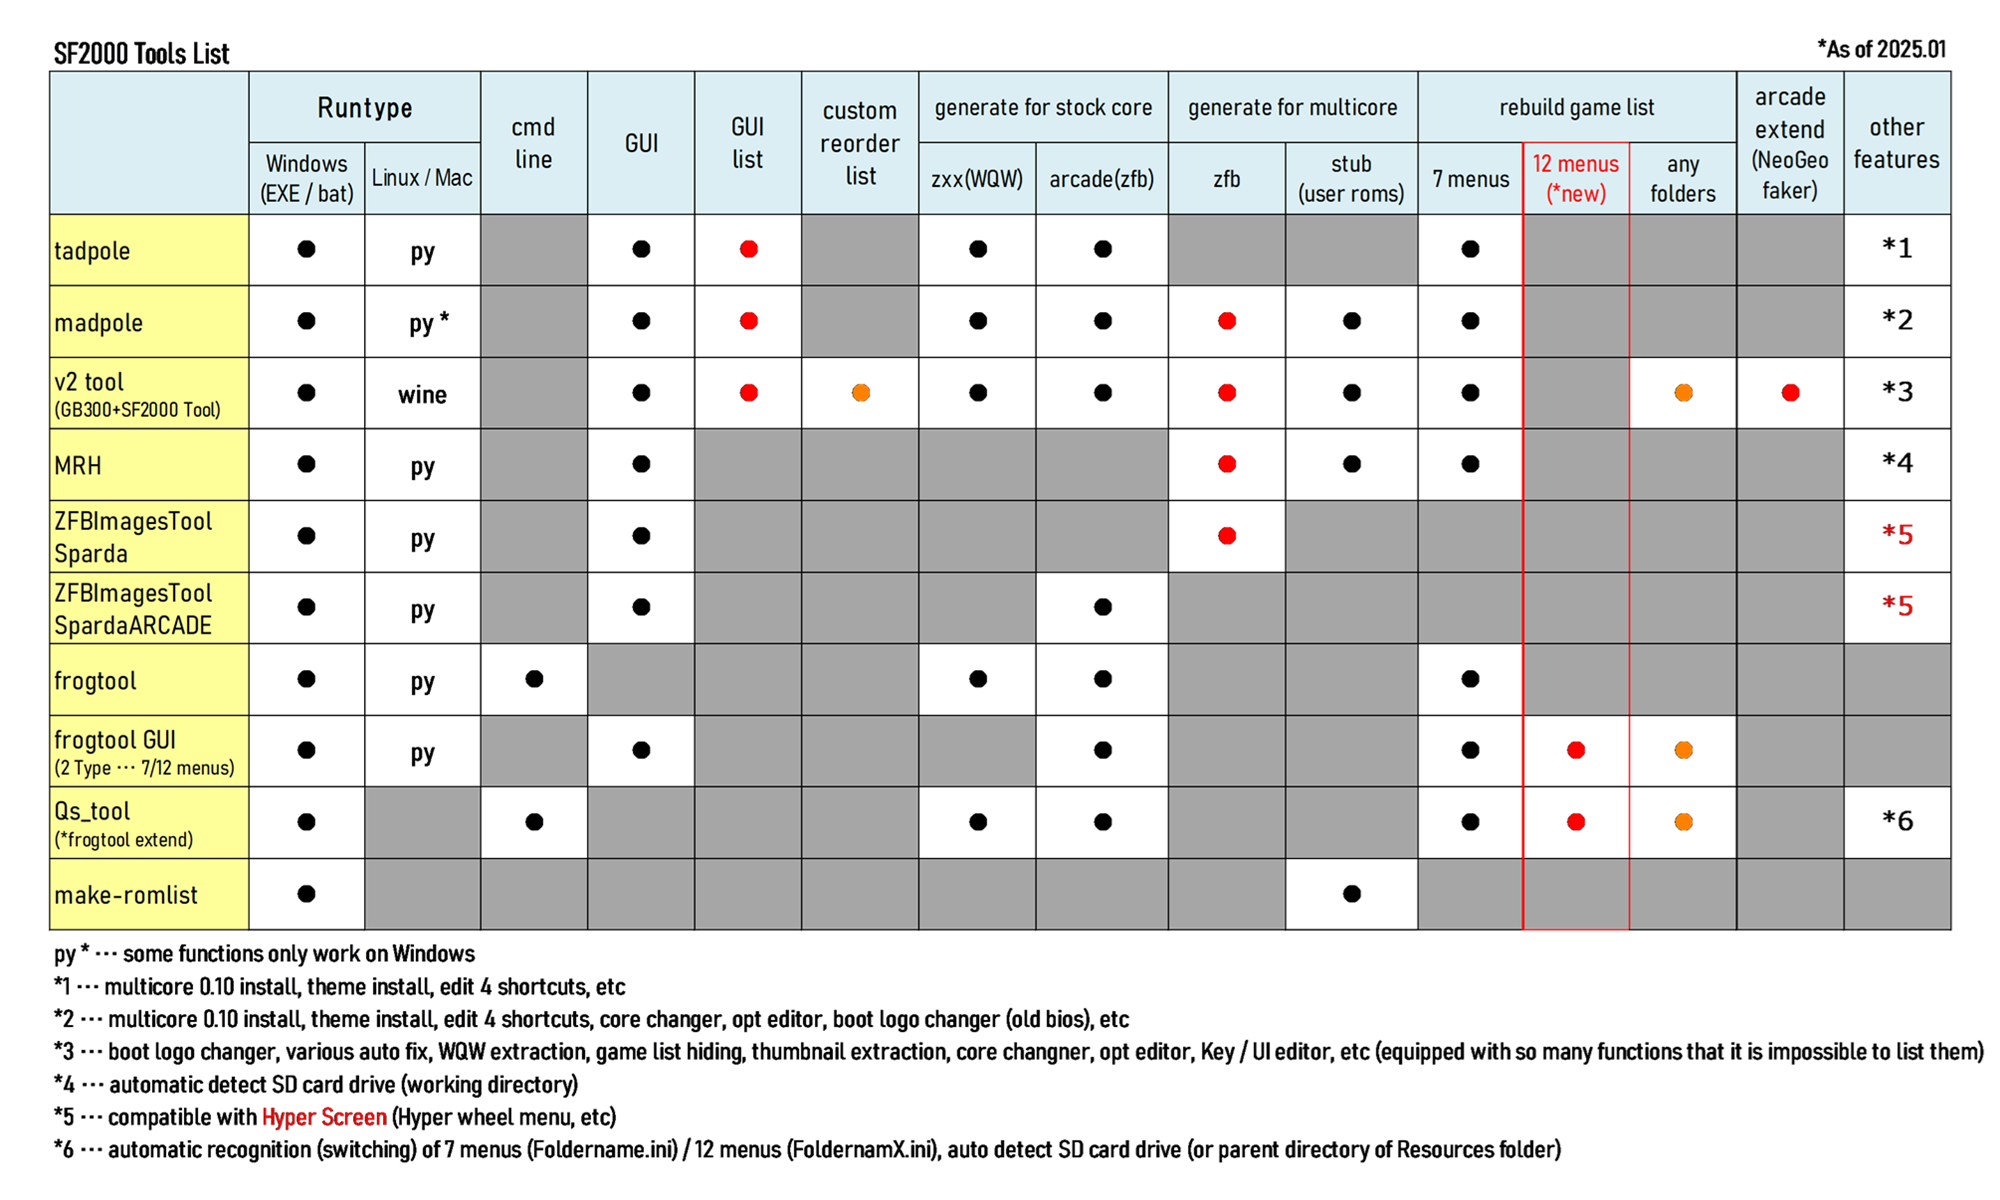
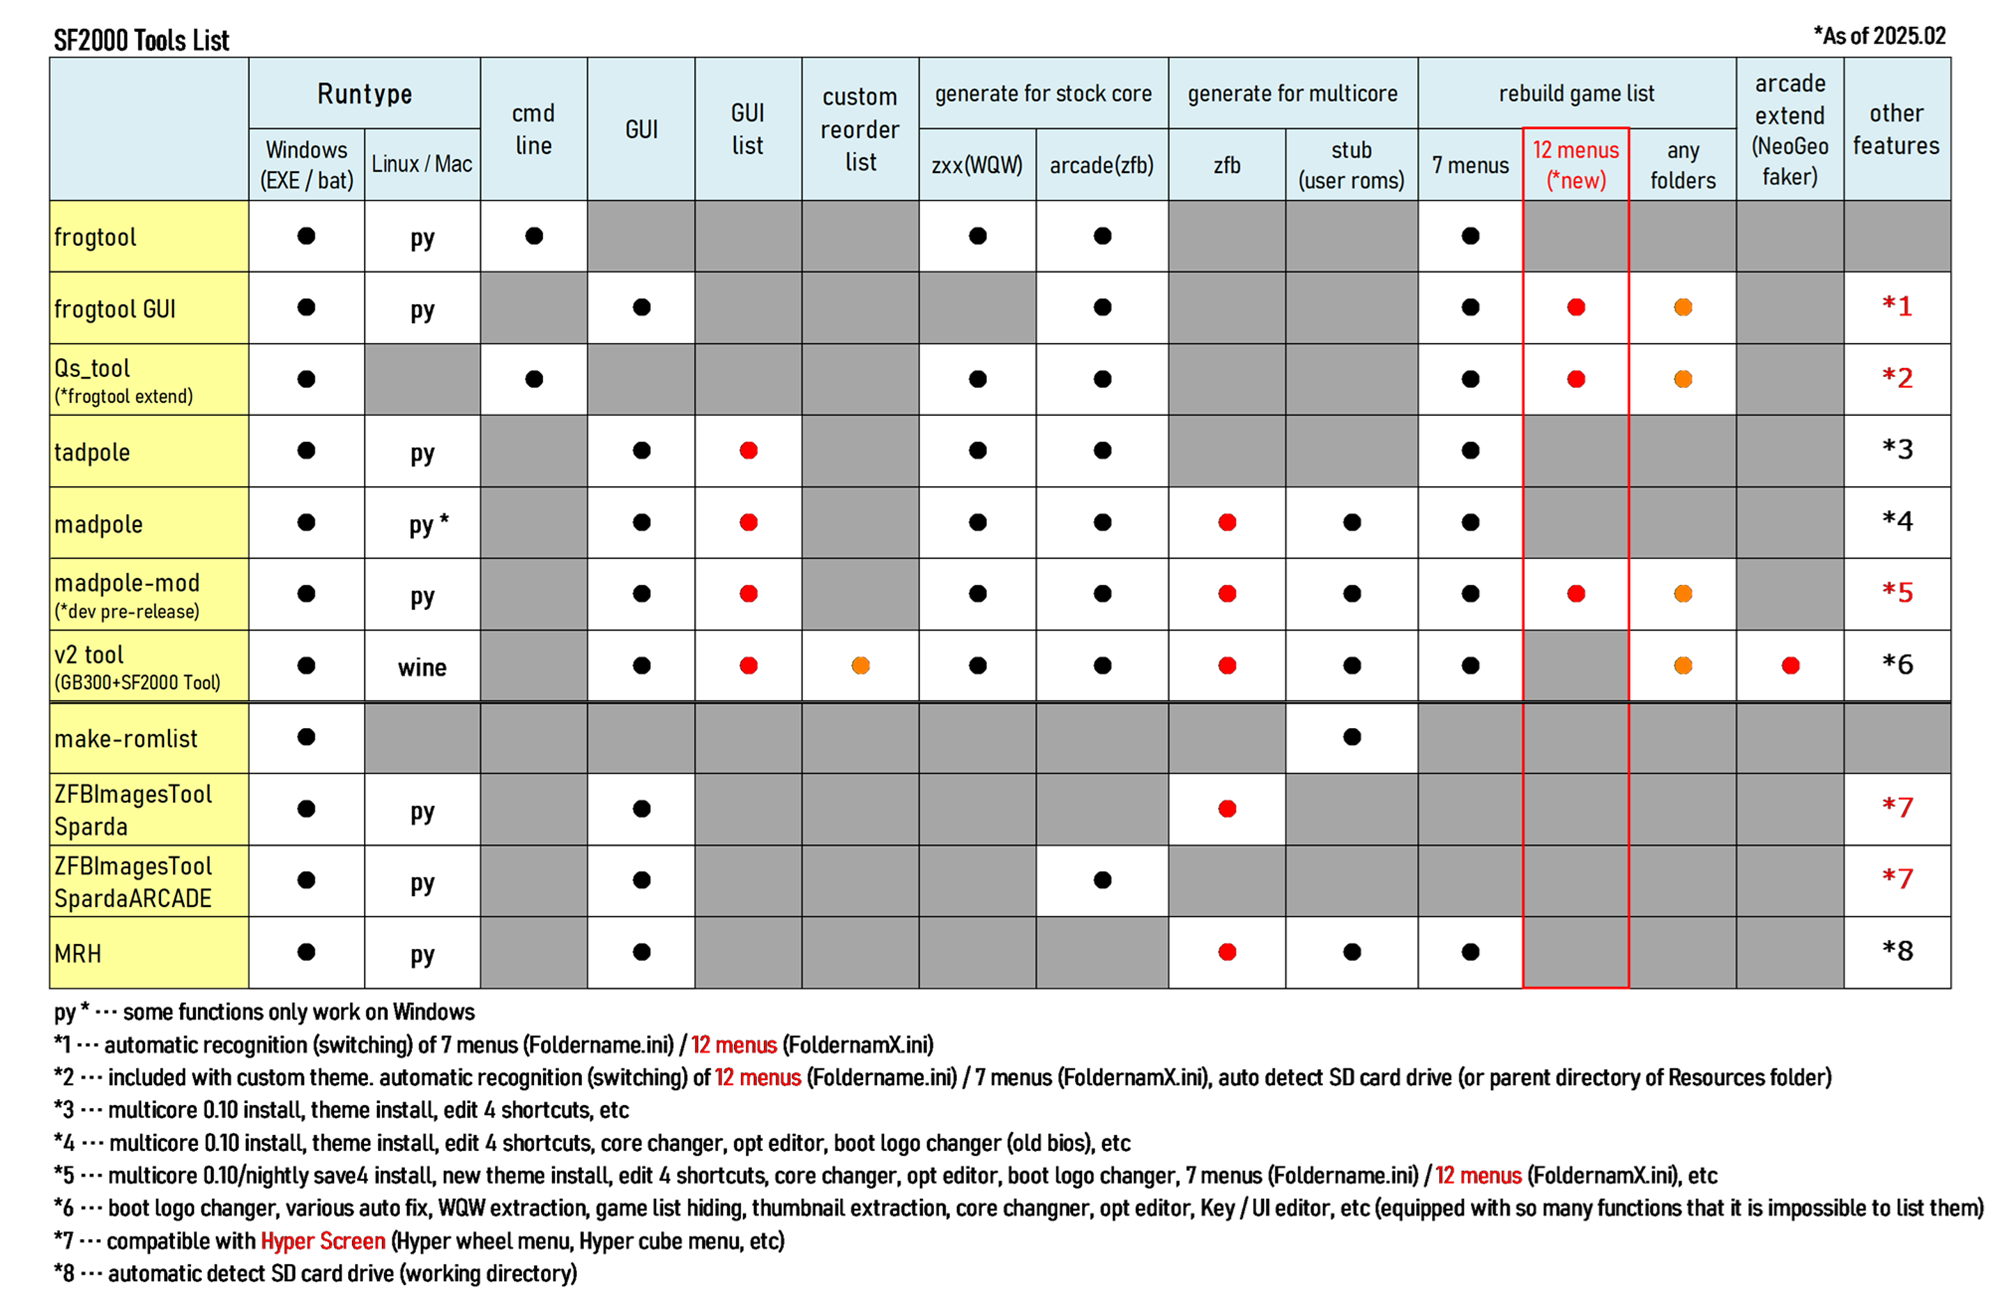
Add files via upload

diff --git a/sf2000_tool_list.html b/sf2000_tool_list.html
@@ -9,24 +9,26 @@
     var tools = [
       {name: "frogtool", url: "https://github.com/tzlion/frogtool/releases", 
 win: "●", mac: "py", cmd: "●", gui: "", list: "", order: "", zxx: "●", arcad: "●", zfb: "", stub: "", menu7: "●", menu12: "", anyfol: "", ngf: "", other: "", descript: "", des2: ""},
-      {name: "frogtool GUI<br>(7/12 menus)", url: "https://discord.com/channels/741895796315914271/1099465777825972347/1333127246357200986", 
-win: "●", mac: "py", cmd: "", gui: "●", list: "", order: "", zxx: "", arcad: "●", zfb: "", stub: "", menu7: "●", menu12: "●", anyfol: "●", ngf: "", other: "", descript: "", des2: ""},
+      {name: "frogtool GUI", url: "https://discord.com/channels/741895796315914271/1099465777825972347/1333127246357200986", 
+win: "●", mac: "py", cmd: "", gui: "●", list: "", order: "", zxx: "", arcad: "●", zfb: "", stub: "", menu7: "●", menu12: "●", anyfol: "●", ngf: "", other: "<font color='red'>*１</font>", descript: "*１ … automatic recognition (switching) of 7 menus (Foldername.ini) / <font color='red'>12 menus</font> (FoldernamX.ini)", des2: ""},
       {name: "Qs_tool<br>(*frogtool extend)", url: "https://discord.com/channels/741895796315914271/1110397766074638397/1320761816447717456", 
-win: "●", mac: "", cmd: "●", gui: "", list: "", order: "", zxx: "●", arcad: "●", zfb: "", stub: "", menu7: "●", menu12: "●", anyfol: "●", ngf: "", other: "*１", descript: "*１ … automatic recognition (switching) of 7 menus (Foldername.ini) / 12 menus (FoldernamX.ini), auto detect SD card drive (or parent directory of Resources folder)", des2: ""},
+win: "●", mac: "", cmd: "●", gui: "", list: "", order: "", zxx: "●", arcad: "●", zfb: "", stub: "", menu7: "●", menu12: "●", anyfol: "●", ngf: "", other: "<font color='red'>*２</font>", descript: "*２ … included with custom theme. automatic recognition (switching) of <font color='red'>12 menus</font> (Foldername.ini) / 7 menus (FoldernamX.ini), auto detect SD card drive (or parent directory of Resources folder)", des2: ""},
       {name: "tadpole", url: "https://github.com/EricGoldsteinNz/tadpole/releases", 
-win: "●", mac: "py", cmd: "", gui: "●", list: "●", order: "", zxx: "●", arcad: "●", zfb: "", stub: "", menu7: "●", menu12: "", anyfol: "", ngf: "", other: "*２", descript: "*２ … multicore 0.10 install, theme install, edit 4 shortcuts, etc", des2: ""},
+win: "●", mac: "py", cmd: "", gui: "●", list: "●", order: "", zxx: "●", arcad: "●", zfb: "", stub: "", menu7: "●", menu12: "", anyfol: "", ngf: "", other: "*３", descript: "*３ … multicore 0.10 install, theme install, edit 4 shortcuts, etc", des2: ""},
       {name: "madpole", url: "https://github.com/fjdogar/madpole/releases", 
-win: "●", mac: "<font size='+1'>&nbsp;py *</font>", cmd: "", gui: "●", list: "●", order: "", zxx: "●", arcad: "●", zfb: "●", stub: "●", menu7: "●", menu12: "", anyfol: "", ngf: "", other: "*３", descript: "*３ … multicore 0.10 install, theme install, edit 4 shortcuts, core changer, opt editor, boot logo changer (old bios), etc", des2: "py * … some functions only work on Windows"},
+win: "●", mac: "<font size='+1'>&nbsp;py *</font>", cmd: "", gui: "●", list: "●", order: "", zxx: "●", arcad: "●", zfb: "●", stub: "●", menu7: "●", menu12: "", anyfol: "", ngf: "", other: "*４", descript: "*４ … multicore 0.10 install, theme install, edit 4 shortcuts, core changer, opt editor, boot logo changer (old bios), etc", des2: "py * … some functions only work on Windows"},
+      {name: "madpole-mod<br>(*dev pre-release)", url: "https://github.com/Trademarked69/madpole-mod/releases", 
+win: "●", mac: "py", cmd: "", gui: "●", list: "●", order: "", zxx: "●", arcad: "●", zfb: "●", stub: "●", menu7: "●", menu12: "●", anyfol: "●", ngf: "", other: "<font color='red'>*５</font>", descript: "*５ … multicore 0.10 install, theme install, edit 4 shortcuts, core changer, opt editor, boot logo changer, 7 menus (Foldername.ini) / <font color='red'>12 menus</font> (FoldernamX.ini), etc", des2: ""},
       {name: "v2 tool<br>(GB300+SF2000 Tool)", url: "https://github.com/nummacway/gb300-sf2000-tool/releases", 
-win: "●", mac: "wine", cmd: "", gui: "●", list: "●", order: "●", zxx: "●", arcad: "●", zfb: "●", stub: "●", menu7: "●", menu12: "", anyfol: "●", ngf: "●", other: "*４", descript: "*４ … boot logo changer, various auto fix, WQW extraction, game list hiding, thumbnail extraction, core changner, opt editor, Key / UI editor, etc (equipped with so many functions that it is impossible to list them)", des2: ""},
+win: "●", mac: "wine", cmd: "", gui: "●", list: "●", order: "●", zxx: "●", arcad: "●", zfb: "●", stub: "●", menu7: "●", menu12: "", anyfol: "●", ngf: "●", other: "*６", descript: "*６ … boot logo changer, various auto fix, WQW extraction, game list hiding, thumbnail extraction, core changner, opt editor, Key / UI editor, etc (equipped with so many functions that it is impossible to list them)", des2: ""},
       {name: "make-romlist", url: "https://github.com/madcock/sf2000_multicore_cores/releases", 
 win: "●", mac: "", cmd: "", gui: "", list: "", order: "", zxx: "", arcad: "", zfb: "", stub: "●", menu7: "", menu12: "", anyfol: "", ngf: "", other: "", descript: "", des2: ""},
       {name: "ZFBimagesTool<br>Sparda", url: "https://discord.com/channels/741895796315914271/1099465777825972347/1325602740851838976", 
-win: "●", mac: "py", cmd: "", gui: "●", list: "", order: "", zxx: "", arcad: "", zfb: "●", stub: "", menu7: "", menu12: "", anyfol: "", ngf: "", other: "<font color='red'>*５</font>", descript: "*５ … compatible with <font color='red'>Hyper Screen</font> (Hyper wheel menu, Hyper cube menu, etc)", des2: ""},
+win: "●", mac: "py", cmd: "", gui: "●", list: "", order: "", zxx: "", arcad: "", zfb: "●", stub: "", menu7: "", menu12: "", anyfol: "", ngf: "", other: "<font color='red'>*７</font>", descript: "*７ … compatible with <font color='red'>Hyper Screen</font> (Hyper wheel menu, Hyper cube menu, etc)", des2: ""},
       {name: "ZFBimagesTool<br>Sparda ARCADE", url: "https://discord.com/channels/741895796315914271/1099465777825972347/1325602740851838976", 
-win: "●", mac: "py", cmd: "", gui: "●", list: "", order: "", zxx: "", arcad: "●", zfb: "", stub: "", menu7: "", menu12: "", anyfol: "", ngf: "", other: "<font color='red'>*５</font>", descript: "", des2: ""},
+win: "●", mac: "py", cmd: "", gui: "●", list: "", order: "", zxx: "", arcad: "●", zfb: "", stub: "", menu7: "", menu12: "", anyfol: "", ngf: "", other: "<font color='red'>*７</font>", descript: "", des2: ""},
       {name: "MRH", url: "https://github.com/fjdogar/multicore_rom_helper/releases", 
-win: "●", mac: "py", cmd: "", gui: "●", list: "", order: "", zxx: "", arcad: "", zfb: "●", stub: "●", menu7: "●", menu12: "", anyfol: "", ngf: "", other: "*６", descript: "*６ … automatic detect SD card drive (working directory)", des2: ""},
+win: "●", mac: "py", cmd: "", gui: "●", list: "", order: "", zxx: "", arcad: "", zfb: "●", stub: "●", menu7: "●", menu12: "", anyfol: "", ngf: "", other: "*８", descript: "*８ … automatic detect SD card drive (working directory)", des2: ""},
     ];
     // -------------------------------------------------------------------------------------------------------
 
